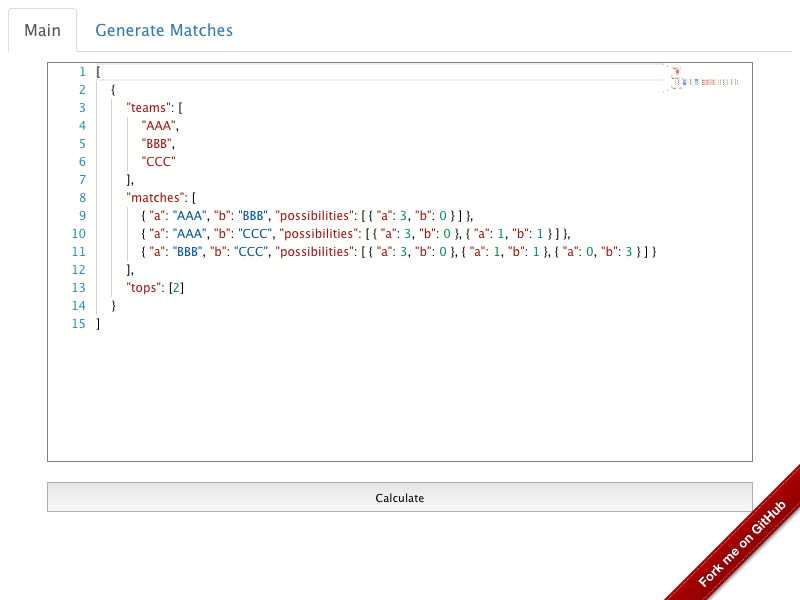
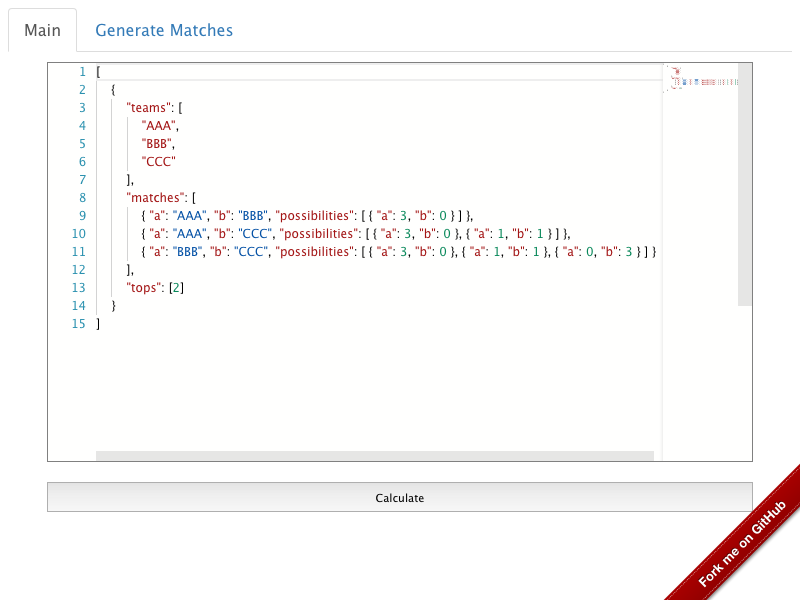
try to fix CI

Changed region(s): [[0.125, 0.75, 0.8125, 0.78], [0.9062, 0.09, 0.9375, 0.51]]

diff --git a/screenshot-src.html b/screenshot-src.html
@@ -114,7 +114,7 @@
 .mtkb { font-weight: bold; }
 .mtku { text-decoration: underline; }</style><style type="text/css" media="screen"></style><script async="async" type="text/javascript" src="./vs/language/json/jsonMode.js"></script></head><body><a class="github-fork-ribbon right-bottom" href="https://github.com/plantain-00/match-calculator" title="Fork me on GitHub" target="_blank" rel="noopener">Fork me on GitHub</a>
 <div id="prerender-container">
-<div class="tab-container"><ul class="tab-title"><li role="presentation" class="active"><a href="javascript:void(0)">Main</a><!----></li><li role="presentation" class=""><a href="javascript:void(0)">Generate Matches</a><!----></li></ul><div class="tab-content"><div role="tabpanel" class="active"><div class="main"><div class="editor" data-keybinding-context="1" data-mode-id="json"><div class="monaco-editor mac  vs" style="width: 704px; height: 398px;"><div data-mprt="3" class="overflow-guard" style="width: 704px; height: 398px;"><div class="margin" role="presentation" aria-hidden="true" style="position: absolute; will-change: transform; top: 0px; height: 650px; width: 48px;"><div class="glyph-margin" style="left: 0px; width: 0px; height: 650px;"></div><div class="margin-view-zones" role="presentation" aria-hidden="true" style="position: absolute;"></div><div class="margin-view-overlays" role="presentation" aria-hidden="true" style="position: absolute; width: 48px; font-family: Menlo, Monaco, &quot;Courier New&quot;, monospace; font-weight: normal; font-size: 12px; line-height: 18px; letter-spacing: 0px; height: 650px;"><div style="position:absolute;top:0px;width:100%;height:18px;"><div class="line-numbers" style="left:0px;width:38px;">1</div></div><div style="position:absolute;top:18px;width:100%;height:18px;"><div class="line-numbers" style="left:0px;width:38px;">2</div></div><div style="position:absolute;top:36px;width:100%;height:18px;"><div class="line-numbers" style="left:0px;width:38px;">3</div></div><div style="position:absolute;top:54px;width:100%;height:18px;"><div class="line-numbers" style="left:0px;width:38px;">4</div></div><div style="position:absolute;top:72px;width:100%;height:18px;"><div class="line-numbers" style="left:0px;width:38px;">5</div></div><div style="position:absolute;top:90px;width:100%;height:18px;"><div class="line-numbers" style="left:0px;width:38px;">6</div></div><div style="position:absolute;top:108px;width:100%;height:18px;"><div class="line-numbers" style="left:0px;width:38px;">7</div></div><div style="position:absolute;top:126px;width:100%;height:18px;"><div class="line-numbers" style="left:0px;width:38px;">8</div></div><div style="position:absolute;top:144px;width:100%;height:18px;"><div class="line-numbers" style="left:0px;width:38px;">9</div></div><div style="position:absolute;top:162px;width:100%;height:18px;"><div class="line-numbers" style="left:0px;width:38px;">10</div></div><div style="position:absolute;top:180px;width:100%;height:18px;"><div class="line-numbers" style="left:0px;width:38px;">11</div></div><div style="position:absolute;top:198px;width:100%;height:18px;"><div class="line-numbers" style="left:0px;width:38px;">12</div></div><div style="position:absolute;top:216px;width:100%;height:18px;"><div class="line-numbers" style="left:0px;width:38px;">13</div></div><div style="position:absolute;top:234px;width:100%;height:18px;"><div class="line-numbers" style="left:0px;width:38px;">14</div></div><div style="position:absolute;top:252px;width:100%;height:18px;"><div class="line-numbers" style="left:0px;width:38px;">15</div></div></div></div><div class="monaco-scrollable-element editor-scrollable vs mac" role="presentation" data-mprt="5" style="position: absolute; overflow: hidden; left: 48px; width: 656px; height: 398px;"><div class="lines-content monaco-editor-background" style="position: absolute; overflow: hidden; width: 1e+06px; height: 1e+06px; will-change: transform; top: 0px; left: 0px;"><div class="view-overlays" role="presentation" aria-hidden="true" style="position: absolute; height: 0px; width: 590px;"><div style="position:absolute;top:0px;width:100%;height:18px;"><div class="current-line" style="width:590px; height:18px;"></div></div><div style="position:absolute;top:18px;width:100%;height:18px;"><div class="cigr" style="left:0px;height:18px;width:1px"></div></div><div style="position:absolute;top:36px;width:100%;height:18px;"><div class="cigr" style="left:0px;height:18px;width:1px"></div><div class="cigr" style="left:15.1875px;height:18px;width:1px"></div></div><div style="position:absolute;top:54px;width:100%;height:18px;"><div class="cigr" style="left:0px;height:18px;width:1px"></div><div class="cigr" style="left:15.1875px;height:18px;width:1px"></div><div class="cigr" style="left:30.375px;height:18px;width:1px"></div></div><div style="position:absolute;top:72px;width:100%;height:18px;"><div class="cigr" style="left:0px;height:18px;width:1px"></div><div class="cigr" style="left:15.1875px;height:18px;width:1px"></div><div class="cigr" style="left:30.375px;height:18px;width:1px"></div></div><div style="position:absolute;top:90px;width:100%;height:18px;"><div class="cigr" style="left:0px;height:18px;width:1px"></div><div class="cigr" style="left:15.1875px;height:18px;width:1px"></div><div class="cigr" style="left:30.375px;height:18px;width:1px"></div></div><div style="position:absolute;top:108px;width:100%;height:18px;"><div class="cigr" style="left:0px;height:18px;width:1px"></div><div class="cigr" style="left:15.1875px;height:18px;width:1px"></div></div><div style="position:absolute;top:126px;width:100%;height:18px;"><div class="cigr" style="left:0px;height:18px;width:1px"></div><div class="cigr" style="left:15.1875px;height:18px;width:1px"></div></div><div style="position:absolute;top:144px;width:100%;height:18px;"><div class="cigr" style="left:0px;height:18px;width:1px"></div><div class="cigr" style="left:15.1875px;height:18px;width:1px"></div><div class="cigr" style="left:30.375px;height:18px;width:1px"></div></div><div style="position:absolute;top:162px;width:100%;height:18px;"><div class="cigr" style="left:0px;height:18px;width:1px"></div><div class="cigr" style="left:15.1875px;height:18px;width:1px"></div><div class="cigr" style="left:30.375px;height:18px;width:1px"></div></div><div style="position:absolute;top:180px;width:100%;height:18px;"><div class="cigr" style="left:0px;height:18px;width:1px"></div><div class="cigr" style="left:15.1875px;height:18px;width:1px"></div><div class="cigr" style="left:30.375px;height:18px;width:1px"></div></div><div style="position:absolute;top:198px;width:100%;height:18px;"><div class="cigr" style="left:0px;height:18px;width:1px"></div><div class="cigr" style="left:15.1875px;height:18px;width:1px"></div></div><div style="position:absolute;top:216px;width:100%;height:18px;"><div class="cigr" style="left:0px;height:18px;width:1px"></div><div class="cigr" style="left:15.1875px;height:18px;width:1px"></div></div><div style="position:absolute;top:234px;width:100%;height:18px;"><div class="cigr" style="left:0px;height:18px;width:1px"></div></div><div style="position:absolute;top:252px;width:100%;height:18px;"></div></div><div role="presentation" aria-hidden="true" class="view-rulers"></div><div class="view-zones" role="presentation" aria-hidden="true" style="position: absolute;"></div><div class="view-lines" role="presentation" aria-hidden="true" data-mprt="7" style="position: absolute; font-family: Menlo, Monaco, &quot;Courier New&quot;, monospace; font-weight: normal; font-size: 12px; line-height: 18px; letter-spacing: 0px; width: 590px; height: 650px;"><div style="top:0px;height:18px;" class="view-line"><span><span class="mtk1">[</span></span></div><div style="top:18px;height:18px;" class="view-line"><span><span class="mtk1">&nbsp;&nbsp;&nbsp;&nbsp;{</span></span></div><div style="top:36px;height:18px;" class="view-line"><span><span class="mtk1">&nbsp;&nbsp;&nbsp;&nbsp;&nbsp;&nbsp;&nbsp;&nbsp;</span><span class="mtk20">"teams"</span><span class="mtk1">:&nbsp;[</span></span></div><div style="top:54px;height:18px;" class="view-line"><span><span class="mtk1">&nbsp;&nbsp;&nbsp;&nbsp;&nbsp;&nbsp;&nbsp;&nbsp;&nbsp;&nbsp;&nbsp;&nbsp;</span><span class="mtk20">"AAA"</span><span class="mtk1">,</span></span></div><div style="top:72px;height:18px;" class="view-line"><span><span class="mtk1">&nbsp;&nbsp;&nbsp;&nbsp;&nbsp;&nbsp;&nbsp;&nbsp;&nbsp;&nbsp;&nbsp;&nbsp;</span><span class="mtk20">"BBB"</span><span class="mtk1">,</span></span></div><div style="top:90px;height:18px;" class="view-line"><span><span class="mtk1">&nbsp;&nbsp;&nbsp;&nbsp;&nbsp;&nbsp;&nbsp;&nbsp;&nbsp;&nbsp;&nbsp;&nbsp;</span><span class="mtk20">"CCC"</span></span></div><div style="top:108px;height:18px;" class="view-line"><span><span class="mtk1">&nbsp;&nbsp;&nbsp;&nbsp;&nbsp;&nbsp;&nbsp;&nbsp;],</span></span></div><div style="top:126px;height:18px;" class="view-line"><span><span class="mtk1">&nbsp;&nbsp;&nbsp;&nbsp;&nbsp;&nbsp;&nbsp;&nbsp;</span><span class="mtk20">"matches"</span><span class="mtk1">:&nbsp;[</span></span></div><div style="top:144px;height:18px;" class="view-line"><span><span class="mtk1">&nbsp;&nbsp;&nbsp;&nbsp;&nbsp;&nbsp;&nbsp;&nbsp;&nbsp;&nbsp;&nbsp;&nbsp;{&nbsp;</span><span class="mtk20">"a"</span><span class="mtk1">:&nbsp;</span><span class="mtk5">"AAA"</span><span class="mtk1">,&nbsp;</span><span class="mtk20">"b"</span><span class="mtk1">:&nbsp;</span><span class="mtk5">"BBB"</span><span class="mtk1">,&nbsp;</span><span class="mtk20">"possibilities"</span><span class="mtk1">:&nbsp;[&nbsp;{&nbsp;</span><span class="mtk20">"a"</span><span class="mtk1">:&nbsp;</span><span class="mtk7">3</span><span class="mtk1">,&nbsp;</span><span class="mtk20">"b"</span><span class="mtk1">:&nbsp;</span><span class="mtk7">0</span><span class="mtk1">&nbsp;}&nbsp;]&nbsp;},</span></span></div><div style="top:162px;height:18px;" class="view-line"><span><span class="mtk1">&nbsp;&nbsp;&nbsp;&nbsp;&nbsp;&nbsp;&nbsp;&nbsp;&nbsp;&nbsp;&nbsp;&nbsp;{&nbsp;</span><span class="mtk20">"a"</span><span class="mtk1">:&nbsp;</span><span class="mtk5">"AAA"</span><span class="mtk1">,&nbsp;</span><span class="mtk20">"b"</span><span class="mtk1">:&nbsp;</span><span class="mtk5">"CCC"</span><span class="mtk1">,&nbsp;</span><span class="mtk20">"possibilities"</span><span class="mtk1">:&nbsp;[&nbsp;{&nbsp;</span><span class="mtk20">"a"</span><span class="mtk1">:&nbsp;</span><span class="mtk7">3</span><span class="mtk1">,&nbsp;</span><span class="mtk20">"b"</span><span class="mtk1">:&nbsp;</span><span class="mtk7">0</span><span class="mtk1">&nbsp;},&nbsp;{&nbsp;</span><span class="mtk20">"a"</span><span class="mtk1">:&nbsp;</span><span class="mtk7">1</span><span class="mtk1">,&nbsp;</span><span class="mtk20">"b"</span><span class="mtk1">:&nbsp;</span><span class="mtk7">1</span><span class="mtk1">&nbsp;}&nbsp;]&nbsp;},</span></span></div><div style="top:180px;height:18px;" class="view-line"><span><span class="mtk1">&nbsp;&nbsp;&nbsp;&nbsp;&nbsp;&nbsp;&nbsp;&nbsp;&nbsp;&nbsp;&nbsp;&nbsp;{&nbsp;</span><span class="mtk20">"a"</span><span class="mtk1">:&nbsp;</span><span class="mtk5">"BBB"</span><span class="mtk1">,&nbsp;</span><span class="mtk20">"b"</span><span class="mtk1">:&nbsp;</span><span class="mtk5">"CCC"</span><span class="mtk1">,&nbsp;</span><span class="mtk20">"possibilities"</span><span class="mtk1">:&nbsp;[&nbsp;{&nbsp;</span><span class="mtk20">"a"</span><span class="mtk1">:&nbsp;</span><span class="mtk7">3</span><span class="mtk1">,&nbsp;</span><span class="mtk20">"b"</span><span class="mtk1">:&nbsp;</span><span class="mtk7">0</span><span class="mtk1">&nbsp;},&nbsp;{&nbsp;</span><span class="mtk20">"a"</span><span class="mtk1">:&nbsp;</span><span class="mtk7">1</span><span class="mtk1">,&nbsp;</span><span class="mtk20">"b"</span><span class="mtk1">:&nbsp;</span><span class="mtk7">1</span><span class="mtk1">&nbsp;},&nbsp;{&nbsp;</span><span class="mtk20">"a"</span><span class="mtk1">:&nbsp;</span><span class="mtk7">0</span><span class="mtk1">,&nbsp;</span><span class="mtk20">"b"</span><span class="mtk1">:&nbsp;</span><span class="mtk7">3</span><span class="mtk1">&nbsp;}&nbsp;]&nbsp;}</span></span></div><div style="top:198px;height:18px;" class="view-line"><span><span class="mtk1">&nbsp;&nbsp;&nbsp;&nbsp;&nbsp;&nbsp;&nbsp;&nbsp;],</span></span></div><div style="top:216px;height:18px;" class="view-line"><span><span class="mtk1">&nbsp;&nbsp;&nbsp;&nbsp;&nbsp;&nbsp;&nbsp;&nbsp;</span><span class="mtk20">"tops"</span><span class="mtk1">:&nbsp;[</span><span class="mtk7">2</span><span class="mtk1">]</span></span></div><div style="top:234px;height:18px;" class="view-line"><span><span class="mtk1">&nbsp;&nbsp;&nbsp;&nbsp;}</span></span></div><div style="top:252px;height:18px;" class="view-line"><span><span class="mtk1">]</span></span></div></div><div data-mprt="1" class="contentWidgets" style="position: absolute; top: 0px;"></div><div role="presentation" aria-hidden="true" class="cursors-layer cursor-line-style cursor-solid"><div class="cursor" style="height: 18px; top: 0px; left: 0px; font-family: Menlo, Monaco, &quot;Courier New&quot;, monospace; font-weight: normal; font-size: 12px; line-height: 18px; letter-spacing: 0px; display: block; visibility: hidden; width: 2px;"></div></div></div><div role="presentation" aria-hidden="true" class="visible scrollbar horizontal" style="position: absolute; width: 567px; height: 10px; left: 0px; bottom: 0px;"><div class="slider" style="position: absolute; top: 0px; left: 0px; height: 10px; will-change: transform; width: 558px;"></div></div><canvas class="decorationsOverviewRuler" width="14" height="398" style="position: absolute; will-change: transform; top: 0px; right: 0px; width: 14px; height: 398px;"></canvas><div role="presentation" aria-hidden="true" class="visible scrollbar vertical" style="position: absolute; width: 14px; height: 398px; right: 0px; top: 0px;"><div class="slider" style="position: absolute; top: 0px; left: 0px; width: 14px; will-change: transform; height: 243px;"></div></div></div><div role="presentation" aria-hidden="true" style="width: 629px;"></div><textarea data-mprt="6" class="inputarea" wrap="off" autocorrect="off" autocapitalize="off" autocomplete="off" spellcheck="false" aria-label="Editor content;Press Alt+F1 for Accessibility Options." role="textbox" aria-multiline="true" aria-haspopup="false" aria-autocomplete="both" style="font-size: 1px; line-height: 18px; top: 0px; left: 48px; width: 1px; height: 1px;"></textarea><div style="position: absolute; top: 0px; left: 0px; width: 0px; height: 0px;"></div><div data-mprt="4" class="overlayWidgets" style="width: 704px;"><div class="editor-widget find-widget" aria-hidden="true" widgetid="editor.contrib.findWidget" style="max-width: 586px; position: absolute;"><div title="Toggle Replace mode" tabindex="-1" class="button toggle left collapse disabled" role="button" aria-label="Toggle Replace mode" aria-expanded="false" aria-disabled="true"></div><div class="find-part"><div class="monaco-findInput disabled" style="width: 221px;"><div class="monaco-inputbox idle" style="background-color: rgb(255, 255, 255); color: rgb(108, 108, 108);"><div class="wrapper"><input class="input" autocorrect="off" autocapitalize="off" spellcheck="false" type="text" wrap="off" aria-label="Find" placeholder="Find" title="Find" disabled="" style="width: 155px; background-color: rgb(255, 255, 255); color: rgb(108, 108, 108);"></div></div><div class="controls"><div title="Match Case (⌥⌘C)" class="custom-checkbox monaco-case-sensitive unchecked" role="checkbox" aria-checked="false" aria-label="Match Case (⌥⌘C)" aria-disabled="true"></div><div title="Match Whole Word (⌥⌘W)" class="custom-checkbox monaco-whole-word unchecked" role="checkbox" aria-checked="false" aria-label="Match Whole Word (⌥⌘W)" aria-disabled="true"></div><div title="Use Regular Expression (⌥⌘R)" class="custom-checkbox monaco-regex unchecked" role="checkbox" aria-checked="false" aria-label="Use Regular Expression (⌥⌘R)" aria-disabled="true"></div></div></div><div class="matchesCount" title="" style="min-width: 69px;">No Results</div><div title="Previous match (⇧⌘G)" tabindex="-1" class="button previous disabled" role="button" aria-label="Previous match (⇧⌘G)" aria-disabled="true"></div><div title="Next match (⌘G)" tabindex="-1" class="button next disabled" role="button" aria-label="Next match (⌘G)" aria-disabled="true"></div><div class="monaco-checkbox" title="Find in selection (⌥⌘L)" tabindex="-1"><input type="checkbox" class="checkbox" id="checkbox-0" tabindex="-1" disabled=""><label class="label" for="checkbox-0" tabindex="-1"></label></div><div title="Close (Escape)" tabindex="-1" class="button close-fw disabled" role="button" aria-label="Close (Escape)" aria-disabled="true"></div></div><div class="replace-part"><div class="replace-input" style="width: 221px;"><div class="monaco-inputbox idle" style="background-color: rgb(255, 255, 255); color: rgb(108, 108, 108);"><div class="wrapper"><input class="input" autocorrect="off" autocapitalize="off" spellcheck="false" type="text" wrap="off" aria-label="Replace" placeholder="Replace" title="Replace" disabled="" style="background-color: rgb(255, 255, 255); color: rgb(108, 108, 108);"></div></div></div><div title="Replace (⇧⌘1)" tabindex="-1" class="button replace disabled" role="button" aria-label="Replace (⇧⌘1)" aria-disabled="true"></div><div title="Replace All (⌥⌘Enter)" tabindex="-1" class="button replace-all disabled" role="button" aria-label="Replace All (⌥⌘Enter)" aria-disabled="true"></div></div><div class="monaco-sash mac vertical" style="width: 5px;"></div></div><div class="findOptionsWidget" role="presentation" aria-hidden="true" widgetid="editor.contrib.findOptionsWidget" style="display: none; top: 0px; position: absolute; right: 103px;"><div title="Match Case (⌥⌘C)" class="custom-checkbox monaco-case-sensitive unchecked" tabindex="0" role="checkbox" aria-checked="false" aria-label="Match Case (⌥⌘C)"></div><div title="Match Whole Word (⌥⌘W)" class="custom-checkbox monaco-whole-word unchecked" tabindex="0" role="checkbox" aria-checked="false" aria-label="Match Whole Word (⌥⌘W)"></div><div title="Use Regular Expression (⌥⌘R)" class="custom-checkbox monaco-regex unchecked" tabindex="0" role="checkbox" aria-checked="false" aria-label="Use Regular Expression (⌥⌘R)"></div></div><div class="monaco-editor-hover hidden" aria-hidden="true" role="presentation" widgetid="editor.contrib.modesGlyphHoverWidget" style="position: absolute;"></div><div class="accessibilityHelpWidget" role="dialog" aria-hidden="true" widgetid="editor.contrib.accessibilityHelpWidget" style="display: none; position: absolute;"><div role="document"></div></div></div><div data-mprt="8" class="minimap slider-mouseover" role="presentation" aria-hidden="true" style="position: absolute; right: 14px; width: 75px; height: 398px;"><div class="minimap-shadow-visible" style="height: 398px;"></div><canvas width="75" height="398" style="position: absolute; left: 0px; width: 75px; height: 398px;"></canvas><div class="minimap-slider" style="position: absolute; will-change: transform; width: 75px; top: 0px; height: 44px;"><div class="minimap-slider-horizontal" style="position: absolute; left: 0px; width: 75px; top: 0px; height: 44px;"></div></div></div></div><div data-mprt="2" class="overflowingContentWidgets"><div class="monaco-editor-hover hidden" tabindex="0" widgetid="editor.contrib.modesContentHoverWidget" style="position: absolute; max-width: 800px; visibility: hidden;"><div class="monaco-scrollable-element  mac" role="presentation" style="position: relative; overflow: hidden;"><div class="monaco-editor-hover-content" style="overflow: hidden; font-size: 12px; line-height: 18px; max-height: 250px;"></div><div role="presentation" aria-hidden="true" class="invisible scrollbar horizontal" style="position: absolute;"><div class="slider" style="position: absolute; top: 0px; left: 0px; height: 10px; will-change: transform;"></div></div><div role="presentation" aria-hidden="true" class="invisible scrollbar vertical" style="position: absolute;"><div class="slider" style="position: absolute; top: 0px; left: 0px; width: 10px; will-change: transform;"></div></div><div class="shadow"></div><div class="shadow"></div><div class="shadow top-left-corner"></div></div></div><div class="editor-widget parameter-hints-widget" widgetid="editor.widget.parameterHintsWidget" style="font-size: 12px; max-height: 250px; position: absolute; max-width: 800px; visibility: hidden;"><div class="wrapper"><div class="buttons"><div class="button previous"></div><div class="button next"></div></div><div class="overloads"></div><div class="monaco-scrollable-element  mac" role="presentation" style="position: relative; overflow: hidden;"><div class="body" style="overflow: hidden;"><div class="signature"></div><div class="docs"></div></div><div role="presentation" aria-hidden="true" class="invisible scrollbar horizontal" style="position: absolute;"><div class="slider" style="position: absolute; top: 0px; left: 0px; height: 10px; will-change: transform;"></div></div><div role="presentation" aria-hidden="true" class="invisible scrollbar vertical" style="position: absolute;"><div class="slider" style="position: absolute; top: 0px; left: 0px; width: 10px; will-change: transform;"></div></div><div class="shadow"></div><div class="shadow"></div><div class="shadow top-left-corner"></div></div></div></div><div class="monaco-editor rename-box" widgetid="__renameInputWidget" style="height: 18px; box-shadow: rgb(168, 168, 168) 0px 2px 8px; position: absolute; max-width: 800px; visibility: hidden;"><input class="rename-input" type="text" aria-label="Rename input. Type new name and press Enter to commit." style="font-family: Menlo, Monaco, &quot;Courier New&quot;, monospace; font-weight: normal; font-size: 12px; background-color: rgb(255, 255, 255); color: rgb(108, 108, 108); border-width: 0px; border-style: none;"></div><div class="editor-widget suggest-widget" widgetid="editor.widget.suggestWidget" style="position: absolute; max-width: 800px; visibility: hidden;"><div class="message" style="display: none; background-color: rgb(239, 239, 242); border-color: rgb(200, 200, 200);"></div><div class="tree" style="background-color: rgb(239, 239, 242); border-color: rgb(200, 200, 200);"><div class="monaco-list list_id_1 selection-none" role="tree" tabindex="0"><div class="monaco-scrollable-element  mac" role="presentation" style="position: relative; overflow: hidden;"><div class="monaco-list-rows" style="overflow: hidden; height: 0px;"></div><div role="presentation" aria-hidden="true" class="invisible scrollbar horizontal" style="position: absolute;"><div class="slider" style="position: absolute; top: 0px; left: 0px; height: 10px; will-change: transform;"></div></div><div role="presentation" aria-hidden="true" class="invisible scrollbar vertical" style="position: absolute;"><div class="slider" style="position: absolute; top: 0px; left: 0px; width: 10px; will-change: transform;"></div></div></div><style type="text/css" media="screen">.monaco-list.list_id_1:focus .monaco-list-row.focused { background-color: #dcebfc; }
+<div class="tab-container"><ul class="tab-title"><li role="presentation" class="active"><a href="javascript:void(0)">Main</a><!----></li><li role="presentation" class=""><a href="javascript:void(0)">Generate Matches</a><!----></li></ul><div class="tab-content"><div role="tabpanel" class="active"><div class="main"><div class="editor" data-keybinding-context="1" data-mode-id="json"><div class="monaco-editor mac  vs" style="width: 704px; height: 398px;"><div data-mprt="3" class="overflow-guard" style="width: 704px; height: 398px;"><div class="margin" role="presentation" aria-hidden="true" style="position: absolute; will-change: transform; top: 0px; height: 650px; width: 48px;"><div class="glyph-margin" style="left: 0px; width: 0px; height: 650px;"></div><div class="margin-view-zones" role="presentation" aria-hidden="true" style="position: absolute;"></div><div class="margin-view-overlays" role="presentation" aria-hidden="true" style="position: absolute; width: 48px; font-family: Menlo, Monaco, &quot;Courier New&quot;, monospace; font-weight: normal; font-size: 12px; line-height: 18px; letter-spacing: 0px; height: 650px;"><div style="position:absolute;top:0px;width:100%;height:18px;"><div class="line-numbers" style="left:0px;width:38px;">1</div></div><div style="position:absolute;top:18px;width:100%;height:18px;"><div class="line-numbers" style="left:0px;width:38px;">2</div></div><div style="position:absolute;top:36px;width:100%;height:18px;"><div class="line-numbers" style="left:0px;width:38px;">3</div></div><div style="position:absolute;top:54px;width:100%;height:18px;"><div class="line-numbers" style="left:0px;width:38px;">4</div></div><div style="position:absolute;top:72px;width:100%;height:18px;"><div class="line-numbers" style="left:0px;width:38px;">5</div></div><div style="position:absolute;top:90px;width:100%;height:18px;"><div class="line-numbers" style="left:0px;width:38px;">6</div></div><div style="position:absolute;top:108px;width:100%;height:18px;"><div class="line-numbers" style="left:0px;width:38px;">7</div></div><div style="position:absolute;top:126px;width:100%;height:18px;"><div class="line-numbers" style="left:0px;width:38px;">8</div></div><div style="position:absolute;top:144px;width:100%;height:18px;"><div class="line-numbers" style="left:0px;width:38px;">9</div></div><div style="position:absolute;top:162px;width:100%;height:18px;"><div class="line-numbers" style="left:0px;width:38px;">10</div></div><div style="position:absolute;top:180px;width:100%;height:18px;"><div class="line-numbers" style="left:0px;width:38px;">11</div></div><div style="position:absolute;top:198px;width:100%;height:18px;"><div class="line-numbers" style="left:0px;width:38px;">12</div></div><div style="position:absolute;top:216px;width:100%;height:18px;"><div class="line-numbers" style="left:0px;width:38px;">13</div></div><div style="position:absolute;top:234px;width:100%;height:18px;"><div class="line-numbers" style="left:0px;width:38px;">14</div></div><div style="position:absolute;top:252px;width:100%;height:18px;"><div class="line-numbers" style="left:0px;width:38px;">15</div></div></div></div><div class="monaco-scrollable-element editor-scrollable vs mac" role="presentation" data-mprt="5" style="position: absolute; overflow: hidden; left: 48px; width: 656px; height: 398px;"><div class="lines-content monaco-editor-background" style="position: absolute; overflow: hidden; width: 1e+06px; height: 1e+06px; will-change: transform; top: 0px; left: 0px;"><div class="view-overlays" role="presentation" aria-hidden="true" style="position: absolute; height: 0px; width: 590px;"><div style="position:absolute;top:0px;width:100%;height:18px;"><div class="current-line" style="width:590px; height:18px;"></div></div><div style="position:absolute;top:18px;width:100%;height:18px;"><div class="cigr" style="left:0px;height:18px;width:1px"></div></div><div style="position:absolute;top:36px;width:100%;height:18px;"><div class="cigr" style="left:0px;height:18px;width:1px"></div><div class="cigr" style="left:15.1875px;height:18px;width:1px"></div></div><div style="position:absolute;top:54px;width:100%;height:18px;"><div class="cigr" style="left:0px;height:18px;width:1px"></div><div class="cigr" style="left:15.1875px;height:18px;width:1px"></div><div class="cigr" style="left:30.375px;height:18px;width:1px"></div></div><div style="position:absolute;top:72px;width:100%;height:18px;"><div class="cigr" style="left:0px;height:18px;width:1px"></div><div class="cigr" style="left:15.1875px;height:18px;width:1px"></div><div class="cigr" style="left:30.375px;height:18px;width:1px"></div></div><div style="position:absolute;top:90px;width:100%;height:18px;"><div class="cigr" style="left:0px;height:18px;width:1px"></div><div class="cigr" style="left:15.1875px;height:18px;width:1px"></div><div class="cigr" style="left:30.375px;height:18px;width:1px"></div></div><div style="position:absolute;top:108px;width:100%;height:18px;"><div class="cigr" style="left:0px;height:18px;width:1px"></div><div class="cigr" style="left:15.1875px;height:18px;width:1px"></div></div><div style="position:absolute;top:126px;width:100%;height:18px;"><div class="cigr" style="left:0px;height:18px;width:1px"></div><div class="cigr" style="left:15.1875px;height:18px;width:1px"></div></div><div style="position:absolute;top:144px;width:100%;height:18px;"><div class="cigr" style="left:0px;height:18px;width:1px"></div><div class="cigr" style="left:15.1875px;height:18px;width:1px"></div><div class="cigr" style="left:30.375px;height:18px;width:1px"></div></div><div style="position:absolute;top:162px;width:100%;height:18px;"><div class="cigr" style="left:0px;height:18px;width:1px"></div><div class="cigr" style="left:15.1875px;height:18px;width:1px"></div><div class="cigr" style="left:30.375px;height:18px;width:1px"></div></div><div style="position:absolute;top:180px;width:100%;height:18px;"><div class="cigr" style="left:0px;height:18px;width:1px"></div><div class="cigr" style="left:15.1875px;height:18px;width:1px"></div><div class="cigr" style="left:30.375px;height:18px;width:1px"></div></div><div style="position:absolute;top:198px;width:100%;height:18px;"><div class="cigr" style="left:0px;height:18px;width:1px"></div><div class="cigr" style="left:15.1875px;height:18px;width:1px"></div></div><div style="position:absolute;top:216px;width:100%;height:18px;"><div class="cigr" style="left:0px;height:18px;width:1px"></div><div class="cigr" style="left:15.1875px;height:18px;width:1px"></div></div><div style="position:absolute;top:234px;width:100%;height:18px;"><div class="cigr" style="left:0px;height:18px;width:1px"></div></div><div style="position:absolute;top:252px;width:100%;height:18px;"></div></div><div role="presentation" aria-hidden="true" class="view-rulers"></div><div class="view-zones" role="presentation" aria-hidden="true" style="position: absolute;"></div><div class="view-lines" role="presentation" aria-hidden="true" data-mprt="7" style="position: absolute; font-family: Menlo, Monaco, &quot;Courier New&quot;, monospace; font-weight: normal; font-size: 12px; line-height: 18px; letter-spacing: 0px; width: 590px; height: 650px;"><div style="top:0px;height:18px;" class="view-line"><span><span class="mtk1">[</span></span></div><div style="top:18px;height:18px;" class="view-line"><span><span class="mtk1">&nbsp;&nbsp;&nbsp;&nbsp;{</span></span></div><div style="top:36px;height:18px;" class="view-line"><span><span class="mtk1">&nbsp;&nbsp;&nbsp;&nbsp;&nbsp;&nbsp;&nbsp;&nbsp;</span><span class="mtk20">"teams"</span><span class="mtk1">:&nbsp;[</span></span></div><div style="top:54px;height:18px;" class="view-line"><span><span class="mtk1">&nbsp;&nbsp;&nbsp;&nbsp;&nbsp;&nbsp;&nbsp;&nbsp;&nbsp;&nbsp;&nbsp;&nbsp;</span><span class="mtk20">"AAA"</span><span class="mtk1">,</span></span></div><div style="top:72px;height:18px;" class="view-line"><span><span class="mtk1">&nbsp;&nbsp;&nbsp;&nbsp;&nbsp;&nbsp;&nbsp;&nbsp;&nbsp;&nbsp;&nbsp;&nbsp;</span><span class="mtk20">"BBB"</span><span class="mtk1">,</span></span></div><div style="top:90px;height:18px;" class="view-line"><span><span class="mtk1">&nbsp;&nbsp;&nbsp;&nbsp;&nbsp;&nbsp;&nbsp;&nbsp;&nbsp;&nbsp;&nbsp;&nbsp;</span><span class="mtk20">"CCC"</span></span></div><div style="top:108px;height:18px;" class="view-line"><span><span class="mtk1">&nbsp;&nbsp;&nbsp;&nbsp;&nbsp;&nbsp;&nbsp;&nbsp;],</span></span></div><div style="top:126px;height:18px;" class="view-line"><span><span class="mtk1">&nbsp;&nbsp;&nbsp;&nbsp;&nbsp;&nbsp;&nbsp;&nbsp;</span><span class="mtk20">"matches"</span><span class="mtk1">:&nbsp;[</span></span></div><div style="top:144px;height:18px;" class="view-line"><span><span class="mtk1">&nbsp;&nbsp;&nbsp;&nbsp;&nbsp;&nbsp;&nbsp;&nbsp;&nbsp;&nbsp;&nbsp;&nbsp;{&nbsp;</span><span class="mtk20">"a"</span><span class="mtk1">:&nbsp;</span><span class="mtk5">"AAA"</span><span class="mtk1">,&nbsp;</span><span class="mtk20">"b"</span><span class="mtk1">:&nbsp;</span><span class="mtk5">"BBB"</span><span class="mtk1">,&nbsp;</span><span class="mtk20">"possibilities"</span><span class="mtk1">:&nbsp;[&nbsp;{&nbsp;</span><span class="mtk20">"a"</span><span class="mtk1">:&nbsp;</span><span class="mtk7">3</span><span class="mtk1">,&nbsp;</span><span class="mtk20">"b"</span><span class="mtk1">:&nbsp;</span><span class="mtk7">0</span><span class="mtk1">&nbsp;}&nbsp;]&nbsp;},</span></span></div><div style="top:162px;height:18px;" class="view-line"><span><span class="mtk1">&nbsp;&nbsp;&nbsp;&nbsp;&nbsp;&nbsp;&nbsp;&nbsp;&nbsp;&nbsp;&nbsp;&nbsp;{&nbsp;</span><span class="mtk20">"a"</span><span class="mtk1">:&nbsp;</span><span class="mtk5">"AAA"</span><span class="mtk1">,&nbsp;</span><span class="mtk20">"b"</span><span class="mtk1">:&nbsp;</span><span class="mtk5">"CCC"</span><span class="mtk1">,&nbsp;</span><span class="mtk20">"possibilities"</span><span class="mtk1">:&nbsp;[&nbsp;{&nbsp;</span><span class="mtk20">"a"</span><span class="mtk1">:&nbsp;</span><span class="mtk7">3</span><span class="mtk1">,&nbsp;</span><span class="mtk20">"b"</span><span class="mtk1">:&nbsp;</span><span class="mtk7">0</span><span class="mtk1">&nbsp;},&nbsp;{&nbsp;</span><span class="mtk20">"a"</span><span class="mtk1">:&nbsp;</span><span class="mtk7">1</span><span class="mtk1">,&nbsp;</span><span class="mtk20">"b"</span><span class="mtk1">:&nbsp;</span><span class="mtk7">1</span><span class="mtk1">&nbsp;}&nbsp;]&nbsp;},</span></span></div><div style="top:180px;height:18px;" class="view-line"><span><span class="mtk1">&nbsp;&nbsp;&nbsp;&nbsp;&nbsp;&nbsp;&nbsp;&nbsp;&nbsp;&nbsp;&nbsp;&nbsp;{&nbsp;</span><span class="mtk20">"a"</span><span class="mtk1">:&nbsp;</span><span class="mtk5">"BBB"</span><span class="mtk1">,&nbsp;</span><span class="mtk20">"b"</span><span class="mtk1">:&nbsp;</span><span class="mtk5">"CCC"</span><span class="mtk1">,&nbsp;</span><span class="mtk20">"possibilities"</span><span class="mtk1">:&nbsp;[&nbsp;{&nbsp;</span><span class="mtk20">"a"</span><span class="mtk1">:&nbsp;</span><span class="mtk7">3</span><span class="mtk1">,&nbsp;</span><span class="mtk20">"b"</span><span class="mtk1">:&nbsp;</span><span class="mtk7">0</span><span class="mtk1">&nbsp;},&nbsp;{&nbsp;</span><span class="mtk20">"a"</span><span class="mtk1">:&nbsp;</span><span class="mtk7">1</span><span class="mtk1">,&nbsp;</span><span class="mtk20">"b"</span><span class="mtk1">:&nbsp;</span><span class="mtk7">1</span><span class="mtk1">&nbsp;},&nbsp;{&nbsp;</span><span class="mtk20">"a"</span><span class="mtk1">:&nbsp;</span><span class="mtk7">0</span><span class="mtk1">,&nbsp;</span><span class="mtk20">"b"</span><span class="mtk1">:&nbsp;</span><span class="mtk7">3</span><span class="mtk1">&nbsp;}&nbsp;]&nbsp;}</span></span></div><div style="top:198px;height:18px;" class="view-line"><span><span class="mtk1">&nbsp;&nbsp;&nbsp;&nbsp;&nbsp;&nbsp;&nbsp;&nbsp;],</span></span></div><div style="top:216px;height:18px;" class="view-line"><span><span class="mtk1">&nbsp;&nbsp;&nbsp;&nbsp;&nbsp;&nbsp;&nbsp;&nbsp;</span><span class="mtk20">"tops"</span><span class="mtk1">:&nbsp;[</span><span class="mtk7">2</span><span class="mtk1">]</span></span></div><div style="top:234px;height:18px;" class="view-line"><span><span class="mtk1">&nbsp;&nbsp;&nbsp;&nbsp;}</span></span></div><div style="top:252px;height:18px;" class="view-line"><span><span class="mtk1">]</span></span></div></div><div data-mprt="1" class="contentWidgets" style="position: absolute; top: 0px;"></div><div role="presentation" aria-hidden="true" class="cursors-layer cursor-line-style cursor-solid"><div class="cursor" style="height: 18px; top: 0px; left: 0px; font-family: Menlo, Monaco, &quot;Courier New&quot;, monospace; font-weight: normal; font-size: 12px; line-height: 18px; letter-spacing: 0px; display: block; visibility: hidden; width: 2px;"></div></div></div><div role="presentation" aria-hidden="true" class="invisible scrollbar horizontal fade" style="position: absolute; width: 567px; height: 10px; left: 0px; bottom: 0px;"><div class="slider" style="position: absolute; top: 0px; left: 0px; height: 10px; will-change: transform; width: 558px;"></div></div><canvas class="decorationsOverviewRuler" width="14" height="398" style="position: absolute; will-change: transform; top: 0px; right: 0px; width: 14px; height: 398px;"></canvas><div role="presentation" aria-hidden="true" class="invisible scrollbar vertical fade" style="position: absolute; width: 14px; height: 398px; right: 0px; top: 0px;"><div class="slider" style="position: absolute; top: 0px; left: 0px; width: 14px; will-change: transform; height: 243px;"></div></div></div><div role="presentation" aria-hidden="true" style="width: 629px;"></div><textarea data-mprt="6" class="inputarea" wrap="off" autocorrect="off" autocapitalize="off" autocomplete="off" spellcheck="false" aria-label="Editor content;Press Alt+F1 for Accessibility Options." role="textbox" aria-multiline="true" aria-haspopup="false" aria-autocomplete="both" style="font-size: 1px; line-height: 18px; top: 0px; left: 48px; width: 1px; height: 1px;"></textarea><div style="position: absolute; top: 0px; left: 0px; width: 0px; height: 0px;"></div><div data-mprt="4" class="overlayWidgets" style="width: 704px;"><div class="editor-widget find-widget" aria-hidden="true" widgetid="editor.contrib.findWidget" style="max-width: 586px; position: absolute;"><div title="Toggle Replace mode" tabindex="-1" class="button toggle left collapse disabled" role="button" aria-label="Toggle Replace mode" aria-expanded="false" aria-disabled="true"></div><div class="find-part"><div class="monaco-findInput disabled" style="width: 221px;"><div class="monaco-inputbox idle" style="background-color: rgb(255, 255, 255); color: rgb(108, 108, 108);"><div class="wrapper"><input class="input" autocorrect="off" autocapitalize="off" spellcheck="false" type="text" wrap="off" aria-label="Find" placeholder="Find" title="Find" disabled="" style="width: 155px; background-color: rgb(255, 255, 255); color: rgb(108, 108, 108);"></div></div><div class="controls"><div title="Match Case (⌥⌘C)" class="custom-checkbox monaco-case-sensitive unchecked" role="checkbox" aria-checked="false" aria-label="Match Case (⌥⌘C)" aria-disabled="true"></div><div title="Match Whole Word (⌥⌘W)" class="custom-checkbox monaco-whole-word unchecked" role="checkbox" aria-checked="false" aria-label="Match Whole Word (⌥⌘W)" aria-disabled="true"></div><div title="Use Regular Expression (⌥⌘R)" class="custom-checkbox monaco-regex unchecked" role="checkbox" aria-checked="false" aria-label="Use Regular Expression (⌥⌘R)" aria-disabled="true"></div></div></div><div class="matchesCount" title="" style="min-width: 69px;">No Results</div><div title="Previous match (⇧⌘G)" tabindex="-1" class="button previous disabled" role="button" aria-label="Previous match (⇧⌘G)" aria-disabled="true"></div><div title="Next match (⌘G)" tabindex="-1" class="button next disabled" role="button" aria-label="Next match (⌘G)" aria-disabled="true"></div><div class="monaco-checkbox" title="Find in selection (⌥⌘L)" tabindex="-1"><input type="checkbox" class="checkbox" id="checkbox-0" tabindex="-1" disabled=""><label class="label" for="checkbox-0" tabindex="-1"></label></div><div title="Close (Escape)" tabindex="-1" class="button close-fw disabled" role="button" aria-label="Close (Escape)" aria-disabled="true"></div></div><div class="replace-part"><div class="replace-input" style="width: 221px;"><div class="monaco-inputbox idle" style="background-color: rgb(255, 255, 255); color: rgb(108, 108, 108);"><div class="wrapper"><input class="input" autocorrect="off" autocapitalize="off" spellcheck="false" type="text" wrap="off" aria-label="Replace" placeholder="Replace" title="Replace" disabled="" style="background-color: rgb(255, 255, 255); color: rgb(108, 108, 108);"></div></div></div><div title="Replace (⇧⌘1)" tabindex="-1" class="button replace disabled" role="button" aria-label="Replace (⇧⌘1)" aria-disabled="true"></div><div title="Replace All (⌥⌘Enter)" tabindex="-1" class="button replace-all disabled" role="button" aria-label="Replace All (⌥⌘Enter)" aria-disabled="true"></div></div><div class="monaco-sash mac vertical" style="width: 5px;"></div></div><div class="findOptionsWidget" role="presentation" aria-hidden="true" widgetid="editor.contrib.findOptionsWidget" style="display: none; top: 0px; position: absolute; right: 103px;"><div title="Match Case (⌥⌘C)" class="custom-checkbox monaco-case-sensitive unchecked" tabindex="0" role="checkbox" aria-checked="false" aria-label="Match Case (⌥⌘C)"></div><div title="Match Whole Word (⌥⌘W)" class="custom-checkbox monaco-whole-word unchecked" tabindex="0" role="checkbox" aria-checked="false" aria-label="Match Whole Word (⌥⌘W)"></div><div title="Use Regular Expression (⌥⌘R)" class="custom-checkbox monaco-regex unchecked" tabindex="0" role="checkbox" aria-checked="false" aria-label="Use Regular Expression (⌥⌘R)"></div></div><div class="monaco-editor-hover hidden" aria-hidden="true" role="presentation" widgetid="editor.contrib.modesGlyphHoverWidget" style="position: absolute;"></div><div class="accessibilityHelpWidget" role="dialog" aria-hidden="true" widgetid="editor.contrib.accessibilityHelpWidget" style="display: none; position: absolute;"><div role="document"></div></div></div><div data-mprt="8" class="minimap slider-mouseover" role="presentation" aria-hidden="true" style="position: absolute; right: 14px; width: 75px; height: 398px;"><div class="minimap-shadow-visible" style="height: 398px;"></div><canvas width="75" height="398" style="position: absolute; left: 0px; width: 75px; height: 398px;"></canvas><div class="minimap-slider" style="position: absolute; will-change: transform; width: 75px; top: 0px; height: 44px;"><div class="minimap-slider-horizontal" style="position: absolute; left: 0px; width: 75px; top: 0px; height: 44px;"></div></div></div></div><div data-mprt="2" class="overflowingContentWidgets"><div class="monaco-editor-hover hidden" tabindex="0" widgetid="editor.contrib.modesContentHoverWidget" style="position: absolute; max-width: 800px; visibility: hidden;"><div class="monaco-scrollable-element  mac" role="presentation" style="position: relative; overflow: hidden;"><div class="monaco-editor-hover-content" style="overflow: hidden; font-size: 12px; line-height: 18px; max-height: 250px;"></div><div role="presentation" aria-hidden="true" class="invisible scrollbar horizontal" style="position: absolute;"><div class="slider" style="position: absolute; top: 0px; left: 0px; height: 10px; will-change: transform;"></div></div><div role="presentation" aria-hidden="true" class="invisible scrollbar vertical" style="position: absolute;"><div class="slider" style="position: absolute; top: 0px; left: 0px; width: 10px; will-change: transform;"></div></div><div class="shadow"></div><div class="shadow"></div><div class="shadow top-left-corner"></div></div></div><div class="editor-widget parameter-hints-widget" widgetid="editor.widget.parameterHintsWidget" style="font-size: 12px; max-height: 250px; position: absolute; max-width: 800px; visibility: hidden;"><div class="wrapper"><div class="buttons"><div class="button previous"></div><div class="button next"></div></div><div class="overloads"></div><div class="monaco-scrollable-element  mac" role="presentation" style="position: relative; overflow: hidden;"><div class="body" style="overflow: hidden;"><div class="signature"></div><div class="docs"></div></div><div role="presentation" aria-hidden="true" class="invisible scrollbar horizontal" style="position: absolute;"><div class="slider" style="position: absolute; top: 0px; left: 0px; height: 10px; will-change: transform;"></div></div><div role="presentation" aria-hidden="true" class="invisible scrollbar vertical" style="position: absolute;"><div class="slider" style="position: absolute; top: 0px; left: 0px; width: 10px; will-change: transform;"></div></div><div class="shadow"></div><div class="shadow"></div><div class="shadow top-left-corner"></div></div></div></div><div class="monaco-editor rename-box" widgetid="__renameInputWidget" style="height: 18px; box-shadow: rgb(168, 168, 168) 0px 2px 8px; position: absolute; max-width: 800px; visibility: hidden;"><input class="rename-input" type="text" aria-label="Rename input. Type new name and press Enter to commit." style="font-family: Menlo, Monaco, &quot;Courier New&quot;, monospace; font-weight: normal; font-size: 12px; background-color: rgb(255, 255, 255); color: rgb(108, 108, 108); border-width: 0px; border-style: none;"></div><div class="editor-widget suggest-widget" widgetid="editor.widget.suggestWidget" style="position: absolute; max-width: 800px; visibility: hidden;"><div class="message" style="display: none; background-color: rgb(239, 239, 242); border-color: rgb(200, 200, 200);"></div><div class="tree" style="background-color: rgb(239, 239, 242); border-color: rgb(200, 200, 200);"><div class="monaco-list list_id_1 selection-none" role="tree" tabindex="0"><div class="monaco-scrollable-element  mac" role="presentation" style="position: relative; overflow: hidden;"><div class="monaco-list-rows" style="overflow: hidden; height: 0px;"></div><div role="presentation" aria-hidden="true" class="invisible scrollbar horizontal" style="position: absolute;"><div class="slider" style="position: absolute; top: 0px; left: 0px; height: 10px; will-change: transform;"></div></div><div role="presentation" aria-hidden="true" class="invisible scrollbar vertical" style="position: absolute;"><div class="slider" style="position: absolute; top: 0px; left: 0px; width: 10px; will-change: transform;"></div></div></div><style type="text/css" media="screen">.monaco-list.list_id_1:focus .monaco-list-row.focused { background-color: #dcebfc; }
 .monaco-list.list_id_1:focus .monaco-list-row.selected { background-color: #52a8ff; }
 .monaco-list.list_id_1:focus .monaco-list-row.selected:hover { background-color: #52a8ff; }
 .monaco-list.list_id_1:focus .monaco-list-row.selected { color: #ffffff; }

diff --git a/clean-scripts.config.js b/clean-scripts.config.js
@@ -42,6 +42,7 @@ module.exports = {
       const browser = await puppeteer.launch()
       const page = await browser.newPage()
       await page.goto(`http://localhost:8000`)
+      await page.waitFor(1000)
       await page.screenshot({ path: `screenshot.png`, fullPage: true })
       const content = await page.content()
       fs.writeFileSync(`screenshot-src.html`, content)
